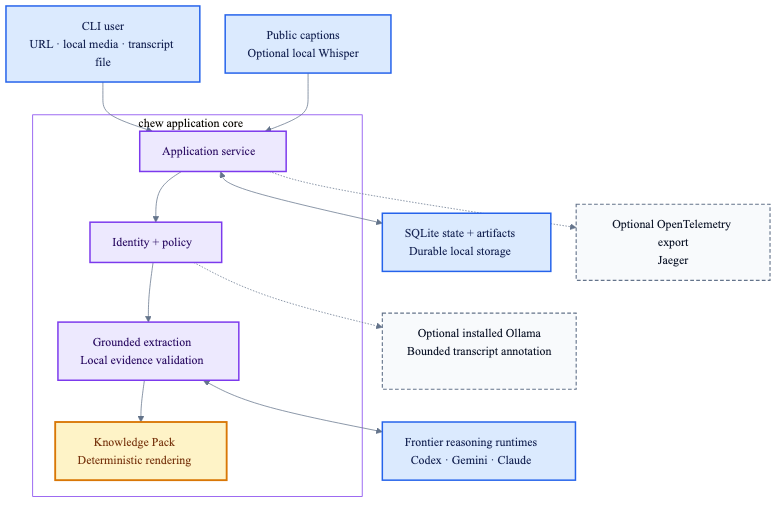
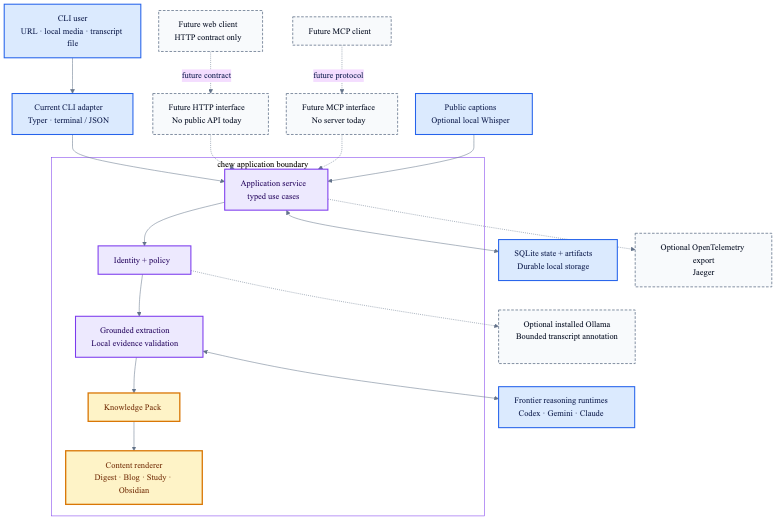
docs: show interface and web boundaries

diff --git a/handoff.md b/handoff.md
@@ -1,160 +1,55 @@
 # Current Execution Index
 
-> Read this first to answer "what should we do now?" Read the linked canonical document only
-> when its acceptance criteria or product decision is needed.
+> Read this first to answer “what should we do now?” Consult the linked canonical documents only
+> for their acceptance criteria or product decisions.
 
 ## Branch and State
 
 - Branch: `feature/benchmark-quality-readiness`
-- Active roadmap: [`IMPROVEMENTS.md`](IMPROVEMENTS.md)
+- Active work: [`IMPROVEMENTS.md`](IMPROVEMENTS.md)
 - Completed history: [`CHANGELOG.md`](CHANGELOG.md)
 - Deferred product work: [`PRODUCT_ROADMAP.md`](PRODUCT_ROADMAP.md)
+- Architecture decision: [`docs/superpowers/specs/2026-08-26-interface-and-agent-boundaries-design.md`](docs/superpowers/specs/2026-08-26-interface-and-agent-boundaries-design.md)
+
+## Current Architecture Decision
+
+- `core` is the domain; do not add a duplicate `domain` layer. `pipeline` remains the cohesive
+  knowledge-compilation package and is not split pre-emptively.
+- `app` is the product-use-case boundary. It is not an `examples` package.
+- `pipeline.outputs` creates reusable product artifacts. `interfaces` presents operation results to
+  CLI now and to future HTTP/MCP consumers later; it does not implement product rendering.
+- The initial `agents` package supplies dependency-free budget, grant, tool, and policy contracts
+  only. There is no LangGraph runtime, MCP server, public HTTP API, authentication scheme, or web
+  UI yet. A future web client consumes only a versioned HTTP contract and can live as a separately
+  deployable `apps/web` project when that API exists.
 
 ## Next Priorities
 
-1. Add the optional bounded LangGraph Agent Orchestration plane only behind the `agents` extra after
-   an implementation plan is reviewed.
-2. Do not run, retain, or interpret end-to-end Frontier benchmark comparisons. The existing `--live`
-   command remains only as a backward-compatible, explicitly invoked diagnostic.
-3. The reviewed seven-fixture metrics-only preprocessing conclusion is recorded in
-   `reports/performance-comparisons/transcript-preprocessing/latest.md`; keep preprocessing opt-in.
+1. Define typed, read-only ApplicationService tools over completed GKT artifacts, then evaluate an
+   optional bounded LangGraph adapter with separate session/checkpoint state.
+2. Keep natural-language `IntentParser` deferred until its deterministic command/option contract is
+   specified; it must not access credentials, browser state, or provider tools.
+3. Keep transcript preprocessing opt-in. The reviewed seven-fixture metrics-only conclusion is in
+   `reports/performance-comparisons/transcript-preprocessing/latest.md`.
 
 ## Active Constraints
 
-- `benchmarks/videos.lock.json` contains the Korean lecture fixture
-  `youtube_ko_45m46s_for_benchmark`, Korean conversational fixture
-  `youtube_ko_38m48s_for_benchmark`, plus English fixtures: `youtube_en_4m35s_for_benchmark`,
-  `youtube_en_39m00s_for_benchmark`, `youtube_en_55m48s_for_benchmark`,
-  `youtube_en_2h00m09s_for_benchmark`, and `youtube_en_2h49m45s_for_benchmark`. A locked fixture
-  is a reproducibility target for maintainer preprocessing measurement, not a user-input restriction.
-- Each lock entry has a required caption `language`; both preprocessing measurement paths request
-  that entry-specific language. The Korean lecture has publicly available automatic `ko` captions,
-  but this does not establish an availability guarantee.
-- `ExecutionPlan` records normal-runtime retry (2 attempts) and 429 policy (3 attempts, 60-second
-  budget, 5-second full-jitter cap). The scheduler resets that in-memory 429 budget for an explicit
-  `chew resume`. Generation subprocess timeout remains the separate `GenerationRequest` default.
-- Do not run, retain, or interpret end-to-end Frontier benchmark comparisons. They are not a release
-  gate; the `--live` command is retained solely for backward compatibility and explicit diagnostics.
-
-## Current Decision
-
-- Frontier remains the final reasoning and summary runtime.
-- Frontier runtime quality is not benchmarked. Provider-costly live comparisons do not inform
-  preprocessing adoption or release decisions.
-- The approved architecture is a deterministic Grounded Knowledge Tree compiler plus an optional
-  LangGraph Agent Orchestration plane. The compiler does not import LangGraph; agents consume Grounded
-  Knowledge Tree artifacts through policy-scoped typed tools.
-- Ollama may propose span-ID-based input-cleanup annotations in `auto/on` mode when a configured single
-  model is already installed. It never summarizes or judges evidence, never downloads during analysis,
-  and any invalid, timed-out, or >5% token-expanding result falls back to deterministic cleanup.
-- Frontier receives one prepared transcript, not raw and prepared copies. Default output profiles must
-  render from the resulting Knowledge Pack without additional outline/compose/verify model calls.
-- Visible-panel browser capture and OCR are not product work: URL-based public transcript
-  acquisition is the default path, and VTT/SRT/TXT remains the only explicit recovery input.
-- Telemetry is injected by `ApplicationContainer` and uses `ContextVar`-isolated run collectors;
-  a scoped DI library remains deferred in `PRODUCT_ROADMAP.md`.
-- A general Knowledge Graph database, Notion, RSS, MCP, REST API, and automation remain deferred. Grounded
-  Knowledge Tree is the compiler's versioned artifact and does not introduce a graph database.
+- Do not run, retain, or interpret end-to-end Frontier benchmark comparisons. `--live` remains only
+  as an explicit backward-compatible diagnostic.
+- Frontier remains responsible for final reasoning; Ollama is an optional, already-installed,
+  bounded transcript-annotation helper only.
+- Agents never receive direct DB, artifact-path, shell, browser-session, cookie, Keychain, or vendor
+  credential access. External writes require explicit approval.
+- `reports/performance-comparisons/transcript-preprocessing/baseline-20260825T052411Z/` and
+  `reports/performance-comparisons/transcript-preprocessing/current-20260825T052533Z/` are known
+  untracked metrics artifacts. Review them separately before staging.
 
 ## Verification and Working Tree
 
-- `b1870bf` makes the application default to a GKT path: it compiles a reversible prepared
-  transcript, calls Frontier once for a strict `KnowledgeTreeDraft`, grounds raw segment IDs and
-  timestamps locally, projects the compatible Knowledge Pack, and renders all default outputs
-  without model calls. `1b48a13` adds tree-domain grounding/projection types. Full verification:
-  `301 passed, 2 skipped`; Ruff and mypy passed. No live Frontier benchmark was run.
-- `10567bf` persists immutable compiler checkpoints for prepared input, Frontier draft, grounded
-  tree, and compatibility pack. `1b09a58` records uncertain provider acceptance as
-  `external_outcome_unknown` and does not automatically resend it. Focused database/pipeline
-  tests, Ruff, and mypy passed; no live Frontier benchmark was run.
-- `e04810b` routes the sole `transcript_annotate` role to an already-available single Ollama model
-  only when explicitly enabled; knowledge extraction remains Frontier-only. Full verification:
-  `305 passed, 2 skipped`; Ruff and mypy passed.
-- `2637689` makes `resume` explicitly reopen `external_outcome_unknown` via a new retry attempt;
-  ordinary failed-job resume behavior remains unchanged. Focused database/application tests, Ruff,
-  and mypy passed.
-- `e0608f5` adds the offline-testable `gkt-deterministic` short-video benchmark condition beside
-  the legacy conditions, sharing the same transcript snapshot and runtime. Full verification:
-  `307 passed, 2 skipped`; Ruff and mypy passed. No live benchmark was run.
-- `3bac3cb` emits GKT stage spans aligned with durable checkpoints. Focused pipeline/telemetry
-  tests, Ruff, and mypy passed.
-- `7143ffc` adds GKT Frontier-call and grounding diagnostics to short-video benchmark reports.
-  Full verification: `307 passed, 2 skipped`; Ruff and mypy passed. No live benchmark was run.
-- User-reviewed queue decisions are committed in `cdc2f75`; the approval column is now explicitly
-  labelled as a user review decision. Six structurally validated JSON references contain the 14
-  approved claims; five `수정` entries remain excluded. `tests/test_benchmark.py` passed (11 tests),
-  as did JSON schema validation and Ruff. No live Frontier benchmark has run yet.
-- The first final GKT benchmark attempt exposed Codex strict-schema incompatibilities for the
-  generated `relations` tuple: it requires an object-valued `items` schema. The fix emits string
-  items while Pydantic retains tuple-length validation; its focused Codex harness regression test,
-  Ruff, and mypy pass. Re-run the same approved 14m34s benchmark before interpreting results.
-- Live benchmark calls now emit `Running <condition> repeat <n>/<total>` before every external
-  request. Validate the approved 14m34s run once before returning to the three-repeat final gate.
-- The 2026-08-25 metrics-only run covers all seven locked fixtures with the same lock and concurrency
-  (`baseline-20260825T052411Z`, `current-20260825T052533Z`). All succeeded; tokenizer input fell
-  from 132,312 to 118,716 (10.28%). The Korean lecture fell 22,916 -> 22,747 (0.74%) and the Korean
-  conversation 18,014 -> 17,866 (0.82%). No Frontier call, quality evaluation, adoption decision,
-  or report promotion occurred. These two untracked run directories require review before staging.
-
-- `0baee5d` contains the credential-boundary, transcript pipeline, bounded-runtime-policy,
-  telemetry, P0 benchmark-snapshot, and migration work. Full verification at that point was
-  `282 passed, 2 skipped`; Ruff and mypy passed. `e4d11c6` removes localized Korean segmentation
-  depth aliases; its focused tests, Ruff, and mypy passed.
-- `3bac530` adds the Korean lecture catalog and per-video caption-language handling. Full
-  verification is current: `287 passed, 2 skipped`; Ruff and mypy passed. The metadata and
-  caption-track check used anonymous public yt-dlp only; no live Frontier benchmark was run.
-- `06d1654` adds the Korean conversational fixture. The same anonymous public metadata and
-  caption-track check confirmed `ko`/`ko-orig`; no live Frontier benchmark was run.
-- `79e5e8e` adds benchmark-reference validation. Full verification at that point was
-  `291 passed, 2 skipped`; Ruff and mypy passed. Invalid references now fail before a live provider
-  call; this does not replace the required human content review.
-- `c474f93` adds AI-assisted, non-executable reference drafts. Focused benchmark tests passed
-  (`39 passed`), as did Ruff and mypy. The source captions were retrieved anonymously with public
-  yt-dlp; no browser credentials, local profile, or live Frontier benchmark were used.
-- The latest five-English-video metrics-only run found `origin/develop` already up to date. Baseline
-  `baseline-20260824T075239Z` and current
-  `current-20260824T075339Z` used the same temporary five-video lock; all videos succeeded and
-  current preprocessing reduced tokenizer input from 79,788 to 78,056 (2.2%) with 0.232 seconds of
-  aggregate preprocessing latency. Quality was not evaluated, so the report status is `revise` and
-  no default-adoption decision follows.
-- `d695ee8` defines the presentation-only benchmark-label contract; `caff0ba` implements it. The
-  renderer replaces internal keys in Markdown, HTML tables, Plotly axes, and fallback HTML
-  with labels such as `English · 2h 00m`; the persisted keys remain unchanged. Full verification:
-  `293 passed, 2 skipped`; Ruff and mypy passed. A regenerated five-video Plotly report is under
-  `/tmp/chew-benchmark-five-labels.g8XKJ2/current/report.html`.
-- User-approved short-video benchmark run `benchmark-results/run-7022e011212b/` compared the
-  anonymously acquired 14m34s English transcript for `aBUniZHgCnE` across three Codex repeats per
-  path. Single-pass median latency/usage was `16.952s`/`29,192`; hierarchical was
-  `57.744s`/`348,963`. Both had zero evidence coverage, and the paths carry different prompt
-  fingerprints, so this is not a default-path decision. Keep the reference-evidence/prompt-policy
-  repair as the immediate prerequisite for rerunning it.
-- The previous `single_frontier_v1` 15-minute design is not implementation-ready: duration alone
-  is not a valid trigger for fan-out. Gemini long-context models can accept much longer prepared
-  transcripts in one request, so the policy must become runtime/model input-budget aware first.
-- A result-path audit found no hard-coded summary, claim, or evidence content under `src/chew`.
-  Static result strings are only renderer structure and state/provenance labels; every semantic
-  result value comes from a Knowledge Pack and validated transcript evidence.
-- The five-minute URL path completed under run `d2e4a1f7-9ab7-442a-9084-9a6129f7021d`; its
-  `auto_subtitle` raw artifact, Knowledge Pack, Digest, and cached Blog reassembly are recorded
-  in [`docs/wiki/transcript-acquisition.md`](docs/wiki/transcript-acquisition.md). The output
-  schema fix has focused tests and a live reassembly result. Latest full verification: `279
-  passed, 2 skipped`; Ruff and mypy passed.
-- P0 transcript acquisition is complete. Short-video benchmark preparation resolves one public raw
-  transcript snapshot before any Frontier condition runs and reuses it for all conditions and
-  repeats; failure therefore creates no live condition or report. This was verified with focused
-  tests only, not a live benchmark.
-- Bounded 429 retry implementation has focused scheduler/policy coverage; full verification is the
-  immediate next action before the next live Frontier validation. The required scheduler benchmark
-  completed in `2m34.57s` (320,600 input / 9,647 output), above the recorded `1m50s` baseline;
-  no 429 was reported and the separate dashboard process had no in-memory spans. This result is
-  non-decisive and must not be repeated or interpreted until the final pre-deployment benchmark.
-- Frontier validation is complete: the recorded five-minute Codex run rejected 1 of 11 proposed
-  evidence candidates (10 valid), and a separate controlled Codex run with one injected topic
-  failure produced `partial` status and the expected `01:00-02:00` missing range while actual
-  Codex chapter and compose jobs completed. Details are in
-  [`docs/wiki/transcript-acquisition.md`](docs/wiki/transcript-acquisition.md).
-- Acquisition evidence and root-cause history are in
-  [`docs/wiki/transcript-acquisition.md`](docs/wiki/transcript-acquisition.md).
-- Untracked benchmark-report directories exist under
-  `reports/performance-comparisons/transcript-preprocessing/`; inspect before staging and do not
-  include them accidentally.
+- `d591ceb` adds bounded agent contracts; full verification was `315 passed, 2 skipped`, Ruff and
+  mypy clean.
+- `cb0c8b0` adds protocol-neutral interface result presentation and preserves CLI machine fields;
+  full verification was `319 passed, 2 skipped`, Ruff and mypy clean.
+- The current documentation/diagram refresh distinguishes implemented CLI presentation from deferred
+  HTTP, MCP, and web consumers. Full verification is `319 passed, 2 skipped`; Ruff and mypy are
+  clean. No live Frontier benchmark was run.

diff --git a/docs/agent-index.md b/docs/agent-index.md
@@ -30,9 +30,11 @@ The codebase follows Ports & Adapters (Hexagonal) architecture. Layers may only 
 | 4 | `src/chew/harness/` | AI runtime adapters — implement `Harness` protocol from `base.py` |
 | 5 | `src/chew/transcripts/` | Transcript/STT adapters — implement `TranscriptProvider` from `base.py` |
 | 6 | `src/chew/app/` | Application orchestrator, DI bootstrap, CHEW.md config loader |
-| 7 | `src/chew/retention/` | Storage retention policy planner and cleaner |
-| 8 | `src/chew/benchmark/` | Quality benchmarking runner and comparison reports |
-| 9 | `src/chew/cli/` | Typer CLI (bilingual Korean/English), `chew serve` health server launcher |
+| 7 | `src/chew/agents/` | Dependency-free bounded-agent contracts, grant policy, and tool ports; no graph runtime yet |
+| 8 | `src/chew/retention/` | Storage retention policy planner and cleaner |
+| 9 | `src/chew/benchmark/` | Quality benchmarking runner and comparison reports |
+| 10 | `src/chew/interfaces/` | Inbound protocol-neutral response contracts and presenters; HTTP/MCP are future namespaces |
+| 11 | `src/chew/cli/` | Typer CLI (bilingual Korean/English), `chew serve` health server launcher |
 | — | `src/chew/server.py` | FastAPI `/health` + `/readiness` server (optional `[server]` extras) |
 
 ---
@@ -58,6 +60,8 @@ The codebase follows Ports & Adapters (Hexagonal) architecture. Layers may only 
 | How does runtime auto-selection work? | `src/chew/harness/registry.py` |
 | How are dependencies wired together? | `src/chew/app/bootstrap.py` |
 | What does the application use-case entry point look like? | `src/chew/app/service.py` — `ApplicationService.generate()` |
+| What constrains an optional agent tool call? | `src/chew/agents/contracts/models.py`, `src/chew/agents/policy/authorization.py` |
+| How is an application result shaped without importing Typer/FastAPI? | `src/chew/interfaces/presenters/command.py` |
 | Where is the CLI defined? | `src/chew/cli/main.py` |
 | Where is the health server? | `src/chew/server.py` — `create_app()` |
 
@@ -150,6 +154,43 @@ measurement runners request the entry-specific language rather than applying a c
 
 Entry point for the application layer. Catches `HarnessAuthenticationError` and re-raises as `AuthenticationRequired`.
 
+### Agent tool policy (`agents/`)
+
+```python
+@runtime_checkable
+class AgentTool(Protocol):
+    name: str
+    async def invoke(self, request: AgentToolRequest) -> AgentToolResult: ...
+
+async def invoke_granted(
+    tool: AgentTool,
+    request: AgentToolRequest,
+    grant: ToolGrant,
+    *,
+    approved: bool = False,
+) -> AgentToolResult: ...
+```
+
+`AgentBudget` validates positive step/model/deadline limits. `ToolGrant` must name the
+requested tool; disabled grants and approval-required grants without `approved=True` fail before
+the tool runs. These are control-plane contracts only—not a LangGraph workflow or a provider tool.
+
+### Inbound interface response (`interfaces/`)
+
+```python
+@dataclass(frozen=True, slots=True)
+class InterfaceResponse:
+    ok: bool
+    data: Mapping[str, object] | None = None
+    problem: InterfaceProblem | None = None
+
+def command_result_data(result: CommandResult) -> dict[str, object]: ...
+```
+
+An `InterfaceResponse` is exactly one success (data, no problem) or failure (problem, no data).
+`command_result_data()` preserves the existing CLI machine-result fields. It does not render a
+Knowledge Pack; `pipeline.outputs.OutputCompiler` owns product content artifacts.
+
 ---
 
 ## 7. SQLite State Machine
@@ -198,6 +239,7 @@ Rate limiting: `note_rate_limit()` halves `current_limit`; 10 consecutive succes
 | `scripts/spike_token_baseline.py` / `src/chew/benchmark/metrics.py` | Maintainer-only raw-caption token baseline and pure measurement helpers; uses the locked videos and requires `yt-dlp` + `tiktoken` |
 | `scripts/report_job_measurements.py` | Read-only SQLite run profiler for provider usage, request shape, repairs, and retries |
 | `docs/decisions/local-llm-runtime.md` | Product decision: local LLM/Ollama is optional, with adoption criteria |
+| `docs/superpowers/specs/2026-08-26-interface-and-agent-boundaries-design.md` | Approved boundary between app use cases, agent control contracts, content rendering, and inbound interfaces |
 | `CHANGELOG.md` | Feature history by version |
 | `README.md` / `README.ko.md` | User-facing documentation (en/ko) |
 | `reports/BENCHMARK.md` | Performance baseline and release benchmark scores |
@@ -216,6 +258,7 @@ Rate limiting: `note_rate_limit()` halves `current_limit`; 10 consecutive succes
 | New CLI command or option | `cli/main.py` + command table in this doc (§5) + `README.md` + `README.ko.md` + `CHANGELOG.md` |
 | New harness | `harness/<name>.py` + `registry.py` + `bootstrap.py` + harness table in this doc (§4) + `README.md` runtime table + `README.ko.md` + `CHANGELOG.md` + `assets/architecture/*.mmd` |
 | New layer or module | Update layer map in this doc (§2) + `AGENTS.md` architecture layout + `CHANGELOG.md` |
+| New inbound interface | Keep it behind `interfaces/`; update the relevant presenter/contract, architecture diagrams, README, and `CHANGELOG.md` |
 | New extras group | `pyproject.toml` + optional extras table in this doc (§8) + `README.md` |
 | Schema / protocol change | Update interfaces section in this doc (§6) |
 | SQLite state change | Update state machine section in this doc (§7) |

diff --git a/AGENTS.md b/AGENTS.md
@@ -39,13 +39,24 @@ src/chew/
 │   ├── bootstrap.py   (Dependency injection container & AutoHarness)
 │   └── config.py      (Markdown-based settings loader: CHEW.md)
 │
-├── retention/         # Layer 7: Storage Retention & Cleanup Policies
+├── agents/            # Layer 7: Bounded Agent Control Contracts
+│   ├── contracts/     (Immutable budget, grant, request/result values)
+│   ├── policy/        (Pure guarded tool invocation)
+│   ├── ports/         (AgentTool protocol)
+│   └── adapters/      (Future optional graph runtime adapters only)
+│
+├── retention/         # Layer 8: Storage Retention & Cleanup Policies
 │   └── planner.py     (Retention policy planner & cleaner)
 │
-├── benchmark/         # Layer 8: Quality Benchmarking Framework
+├── benchmark/         # Layer 9: Quality Benchmarking Framework
 │   └── runner.py      (Benchmark runner & comparison reports)
 │
-└── cli/               # Layer 9: Presentation Layer (Typer CLI Commands)
+├── interfaces/        # Layer 10: Inbound Interface Contracts & Presenters
+│   ├── contracts/     (Protocol-neutral response envelopes)
+│   ├── presenters/    (Application result → terminal/JSON data)
+│   └── [cli, http, mcp]/ (Current CLI migration namespace; future adapters)
+│
+└── cli/               # Layer 11: Current Typer CLI compatibility entry point
     └── main.py        (Bilingual Korean/English Typer commands)
 
 reports/               # Central Benchmarking & Performance Observability Reports
@@ -70,6 +81,11 @@ benchmarks/            # Maintainer-only post-feature validation scripts
    - `pipeline` orchestrates synthesis without knowing vendor LLM details.
    - `harness` adapters implement the `Harness` protocol in `harness/base.py`.
    - `transcripts` providers implement `TranscriptProvider` in `transcripts/base.py`.
+   - `agents` contracts and policy are dependency-free; a future graph runtime is an optional adapter
+     and receives only policy-scoped tools.
+   - `interfaces` translates an inbound protocol to an application use case and presents its result.
+     It MUST NOT invoke storage, transcript, or runtime adapters directly. `pipeline/outputs.py`
+     remains a product-content renderer, not a web/CLI view layer.
 
 2. **Backward Compatibility**:
    - Re-export modules at the package root (`src/chew/domain.py`, `src/chew/pipeline.py`, `src/chew/config.py`, `src/chew/cli.py`) MUST be maintained so tests and external entrypoints remain compatible.

diff --git a/IMPROVEMENTS.md b/IMPROVEMENTS.md
@@ -24,16 +24,18 @@
 
 이 항목은 현재 구현하지 않는다.
 
-## 2. Grounded Knowledge Tree Agent 오케스트레이션 기반
+## 2. 보류: Grounded Knowledge Tree Agent runtime
 
-Grounded Knowledge Tree compiler를 먼저 완성한 뒤 LangGraph를 optional `agents` extra로 추가한다. core compiler는 LangGraph를
-import하지 않으며, `SessionGraph`와 bounded agent subgraph가 typed Application Service tool을 통해 완성된
-Grounded Knowledge Tree를 소비한다. Research, Style, Conversation, Publishing agent는 각각 tool allowlist, model/step/deadline
-예산, 읽기·쓰기 artifact 범위, 승인 조건을 실행 전에 고정한다.
+기본 control-plane 계약은 구현되었다. `agents`의 immutable budget·tool grant·request/result과 승인 전
+tool 실행을 차단하는 policy, 그리고 `interfaces`의 protocol-neutral presenter는 `CHANGELOG.md`에 기록한다.
+이는 LangGraph, MCP, HTTP API, 또는 웹 UI를 추가한 것이 아니다.
 
-대화 session과 `CompilationRun`·`AgentRun`은 분리한다. LangGraph checkpointer는 기존 canonical SQLite
-run/job/artifact schema와 분리하고 `session_id`, `run_id`, `tree_id`로 연결한다. pause/resume은 단계별
-checkpoint를 사용하며, 수신 여부가 불명확한 provider 요청이나 외부 write는 자동 반복하지 않는다.
+다음 활성 구현 전에는 완성된 Grounded Knowledge Tree만 읽고 렌더링하는 typed Application Service tool을
+정의한다. 그 뒤에만 LangGraph를 optional `agents` extra로 추가한다. `SessionGraph`와 bounded subgraph는
+Research, Style, Conversation, Publishing 역할별 allowlist, model/step/deadline 예산, 읽기·쓰기 artifact
+범위, 승인 조건을 실행 전에 고정한다.
 
-첫 Agent 구현 전에도 role-based policy, Harness adapter 경계, Grounded Knowledge Tree typed tool, durable
-correlation ID를 먼저 정의한다. recursive agent dispatch와 agent의 DB·파일·credential 직접 접근은 허용하지 않는다.
+대화 session과 `CompilationRun`·`AgentRun`은 분리한다. graph checkpointer는 canonical SQLite
+run/job/artifact schema와 분리하고 `session_id`, `run_id`, `tree_id`만 연결한다. 수신 여부가 불명확한
+provider 요청이나 외부 write는 자동 반복하지 않는다. recursive dispatch와 agent의 DB·파일·credential
+직접 접근은 허용하지 않는다.

diff --git a/README.ko.md b/README.ko.md
@@ -137,6 +137,8 @@ YouTube URL, 로컬 미디어, 또는 이미 가진 자막으로 시작합니다
 
 최종 추론은 Frontier runtime이 담당합니다. Ollama는 선택 사항이며, 활성화해도 제한된 자막 annotation에만 사용되고 최종 요약이나 판단을 대체하지 않습니다. SQLite와 content-addressed artifact는 로컬 상태를 보존합니다. OpenTelemetry/Jaeger는 선택적 관측 도구이지 실행에 필요한 의존성이 아닙니다.
 
+Knowledge Pack renderer는 Digest, Blog, Study, Obsidian, JSON처럼 실제로 재사용할 콘텐츠를 만듭니다. 반면 interface presenter는 완료된 작업을 터미널 문구나 machine JSON으로 전달할 뿐입니다. 현재 inbound interface는 CLI이고, HTTP·MCP·별도 배포 가능한 웹 클라이언트는 미래 계약 소비자로만 표시합니다. 아직 공개 API나 웹 UI는 포함하지 않습니다.
+
 ## 내부 파이프라인
 
 핵심 경로는 검증된 원문을 근거가 있는 재사용 지식으로 만든 뒤, 각 출력 프로필을 렌더링합니다.

diff --git a/README.md b/README.md
@@ -136,6 +136,8 @@ The application keeps identity, policy, grounding, Knowledge Pack assembly, and 
 
 Frontier runtimes perform final reasoning. Ollama is optional and, when enabled, is limited to bounded transcript annotation; it does not replace final reasoning or judgment. SQLite and content-addressed artifacts preserve local state. OpenTelemetry/Jaeger is optional observability, not a runtime dependency.
 
+The Knowledge Pack renderer creates the actual reusable content—Digest, Blog, Study, Obsidian, and JSON. That is separate from an interface presenter, which describes a completed operation as terminal text or machine JSON. The current inbound interface is the CLI. HTTP, MCP, and a separately deployable web client are deliberately shown as future contract consumers; no public API or web UI is included yet.
+
 ## Inside the Pipeline
 
 The core path turns validated source material into grounded, reusable knowledge before rendering any profile.

diff --git a/CHANGELOG.md b/CHANGELOG.md
@@ -8,6 +8,10 @@ and this project adheres to [Semantic Versioning](https://semver.org/spec/v2.0.0
 ## [Unreleased]
 
 ### Added
+- **Bounded agent and interface foundations**: adds immutable agent budgets, named tool grants,
+  guarded tool invocation, and protocol-neutral interface response contracts. CLI machine-result
+  presentation now reuses a framework-independent presenter, while HTTP, MCP, LangGraph, and web
+  implementations remain deliberately deferred.
 - **Live benchmark progress**: each condition/repeat is emitted immediately before its external
   provider call, making long explicit live runs observable before their final report is written.
 - **Grounded Knowledge Tree compiler foundation**: adds immutable untrusted tree drafts and
